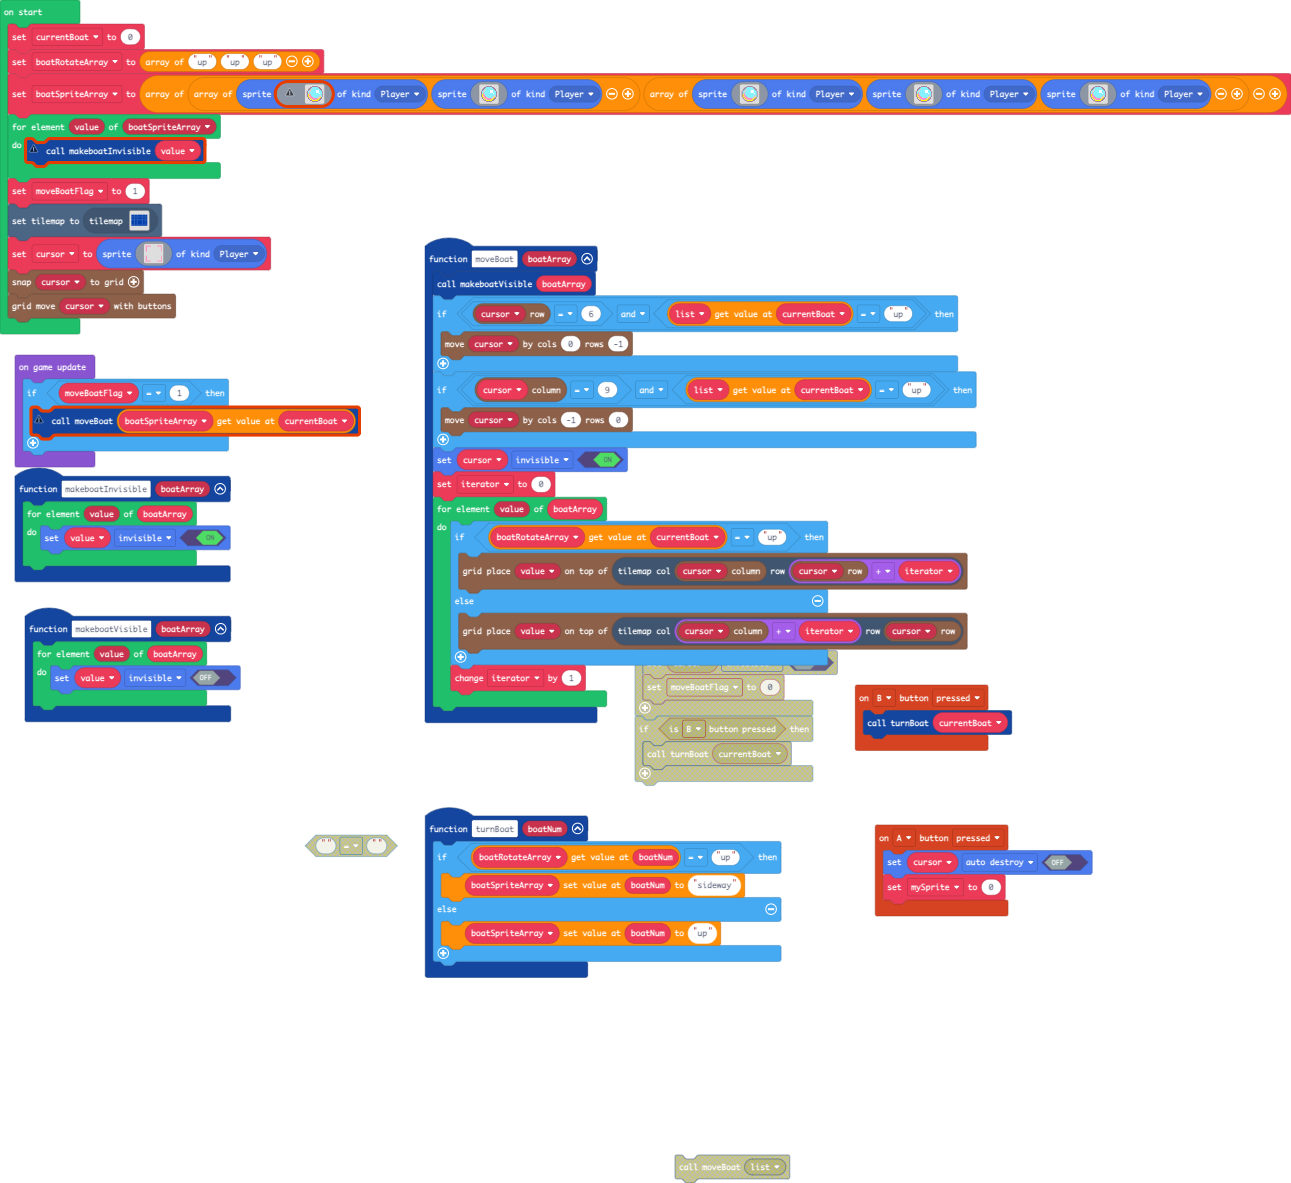
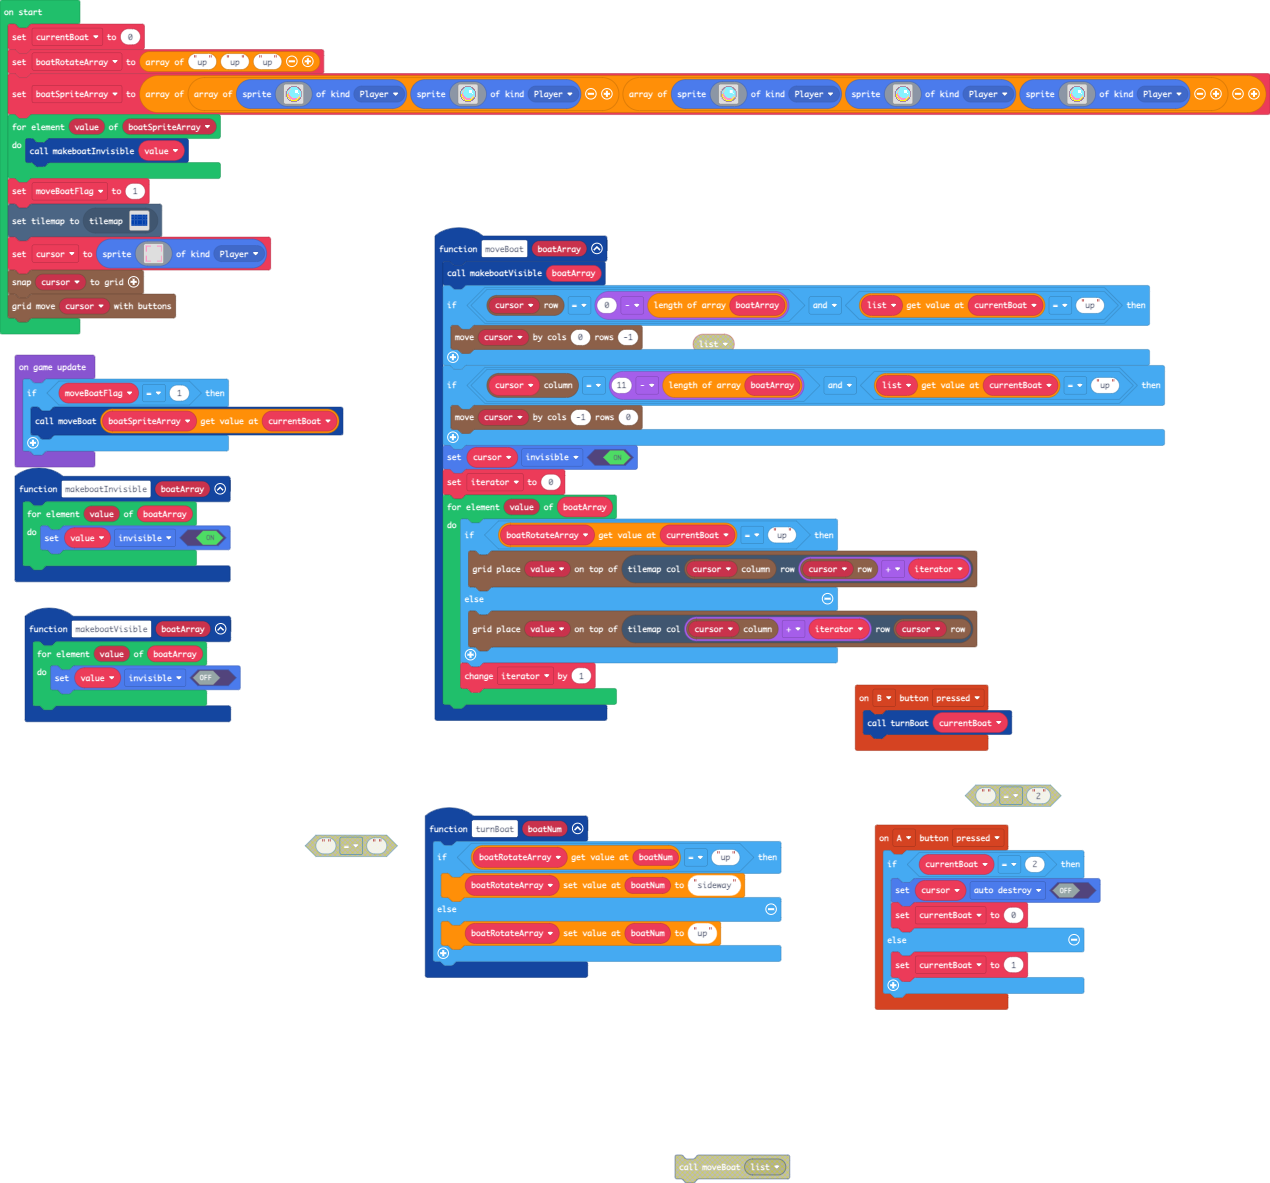
we can move second boat now

diff --git a/main.ts b/main.ts
@@ -7,16 +7,20 @@ function makeboatInvisible (boatArray: Sprite[]) {
     }
 }
 controller.A.onEvent(ControllerButtonEvent.Pressed, function () {
-    cursor.setFlag(SpriteFlag.AutoDestroy, false)
-    mySprite = 0
+    if (currentBoat == 2) {
+        cursor.setFlag(SpriteFlag.AutoDestroy, false)
+        currentBoat = 0
+    } else {
+        currentBoat = 1
+    }
 })
 function moveBoat (boatArray: any[]) {
     let list: string[] = []
     makeboatVisible(boatArray)
-    if (grid.spriteRow(cursor) == 6 && list[currentBoat] == "up") {
+    if (grid.spriteRow(cursor) == 0 - boatArray.length && list[currentBoat] == "up") {
         grid.move(cursor, 0, -1)
     }
-    if (grid.spriteCol(cursor) == 9 && list[currentBoat] == "up") {
+    if (grid.spriteCol(cursor) == 11 - boatArray.length && list[currentBoat] == "up") {
         grid.move(cursor, -1, 0)
     }
     cursor.setFlag(SpriteFlag.Invisible, true)
@@ -37,20 +41,18 @@ function makeboatVisible (boatArray: Sprite[]) {
 }
 function turnBoat (boatNum: number) {
     if (boatRotateArray[boatNum] == "up") {
-        boatSpriteArray[boatNum] = "sideway"
+        boatRotateArray[boatNum] = "sideway"
     } else {
-        boatSpriteArray[boatNum] = "up"
+        boatRotateArray[boatNum] = "up"
     }
 }
 let iterator = 0
-let mySprite = 0
 let cursor: Sprite = null
-let boatSpriteArray: string[] = []
 let boatRotateArray: string[] = []
 let currentBoat = 0
 currentBoat = 0
 boatRotateArray = ["up", "up", "up"]
-boatSpriteArray = [[sprites.create(img`
+let boatSpriteArray = [[sprites.create(img`
     . . . . . b b b b b b . . . . . 
     . . . b b 9 9 9 9 9 9 b b . . . 
     . . b b 9 9 9 9 9 9 9 9 b b . . 
